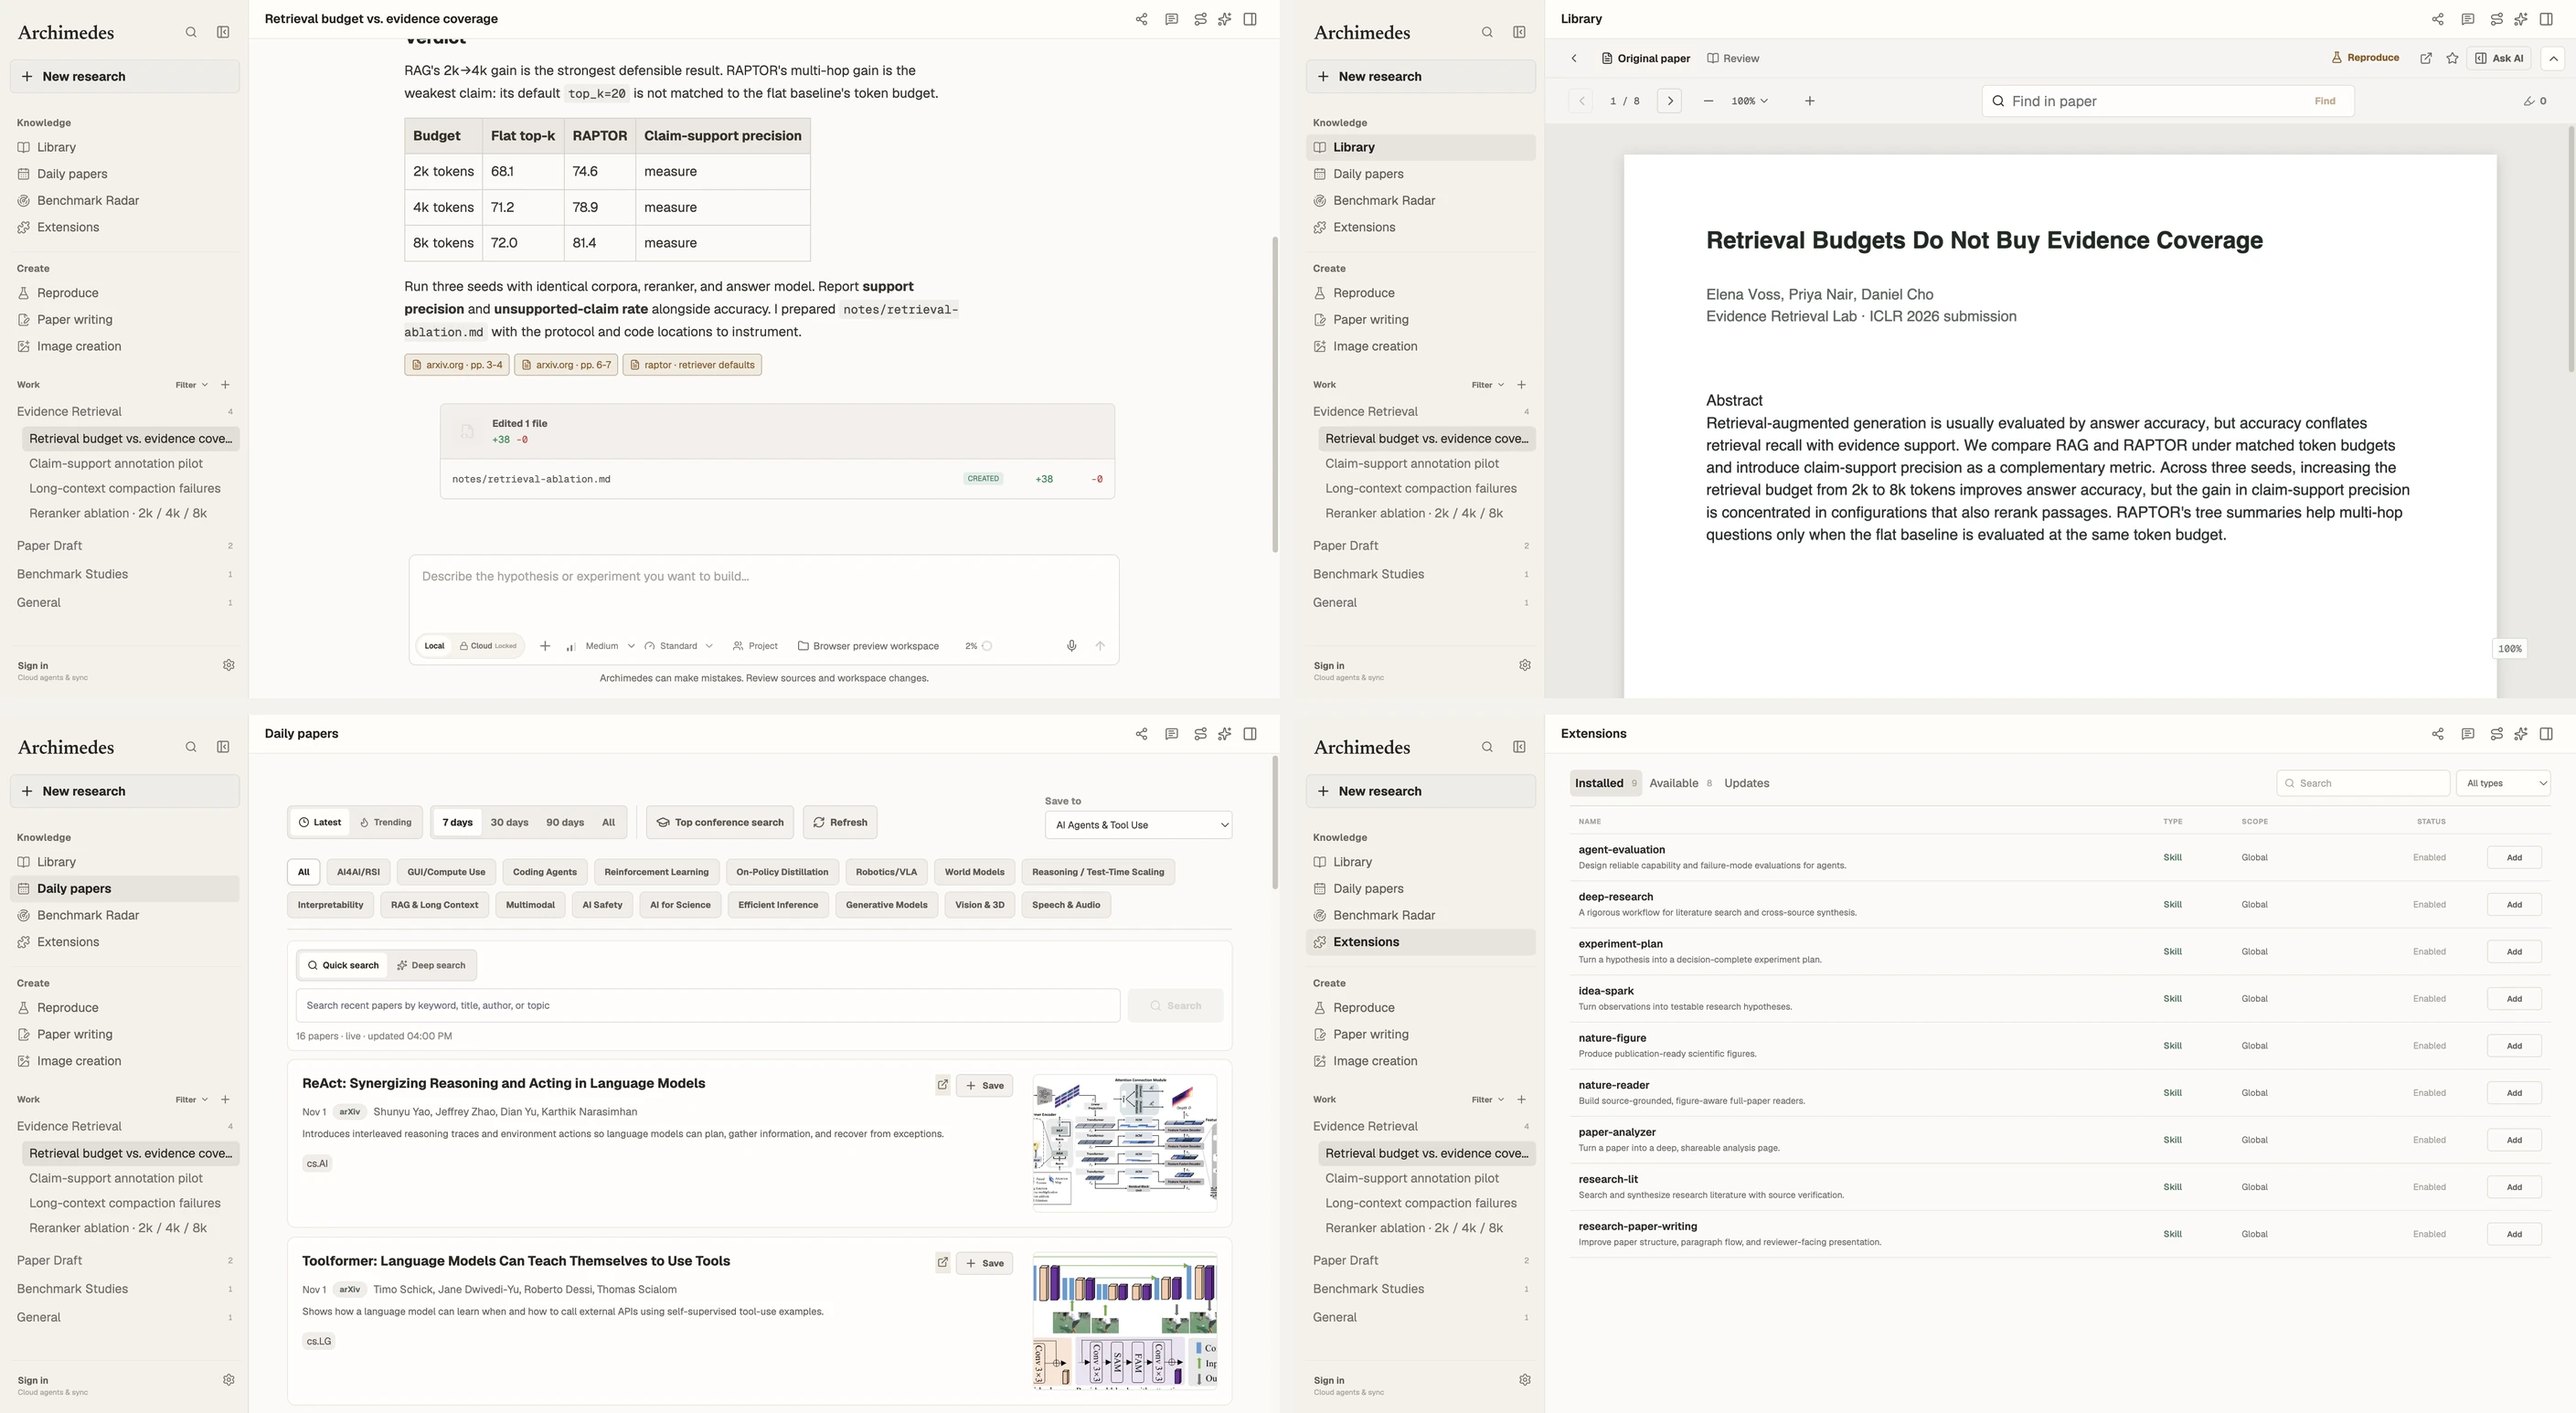
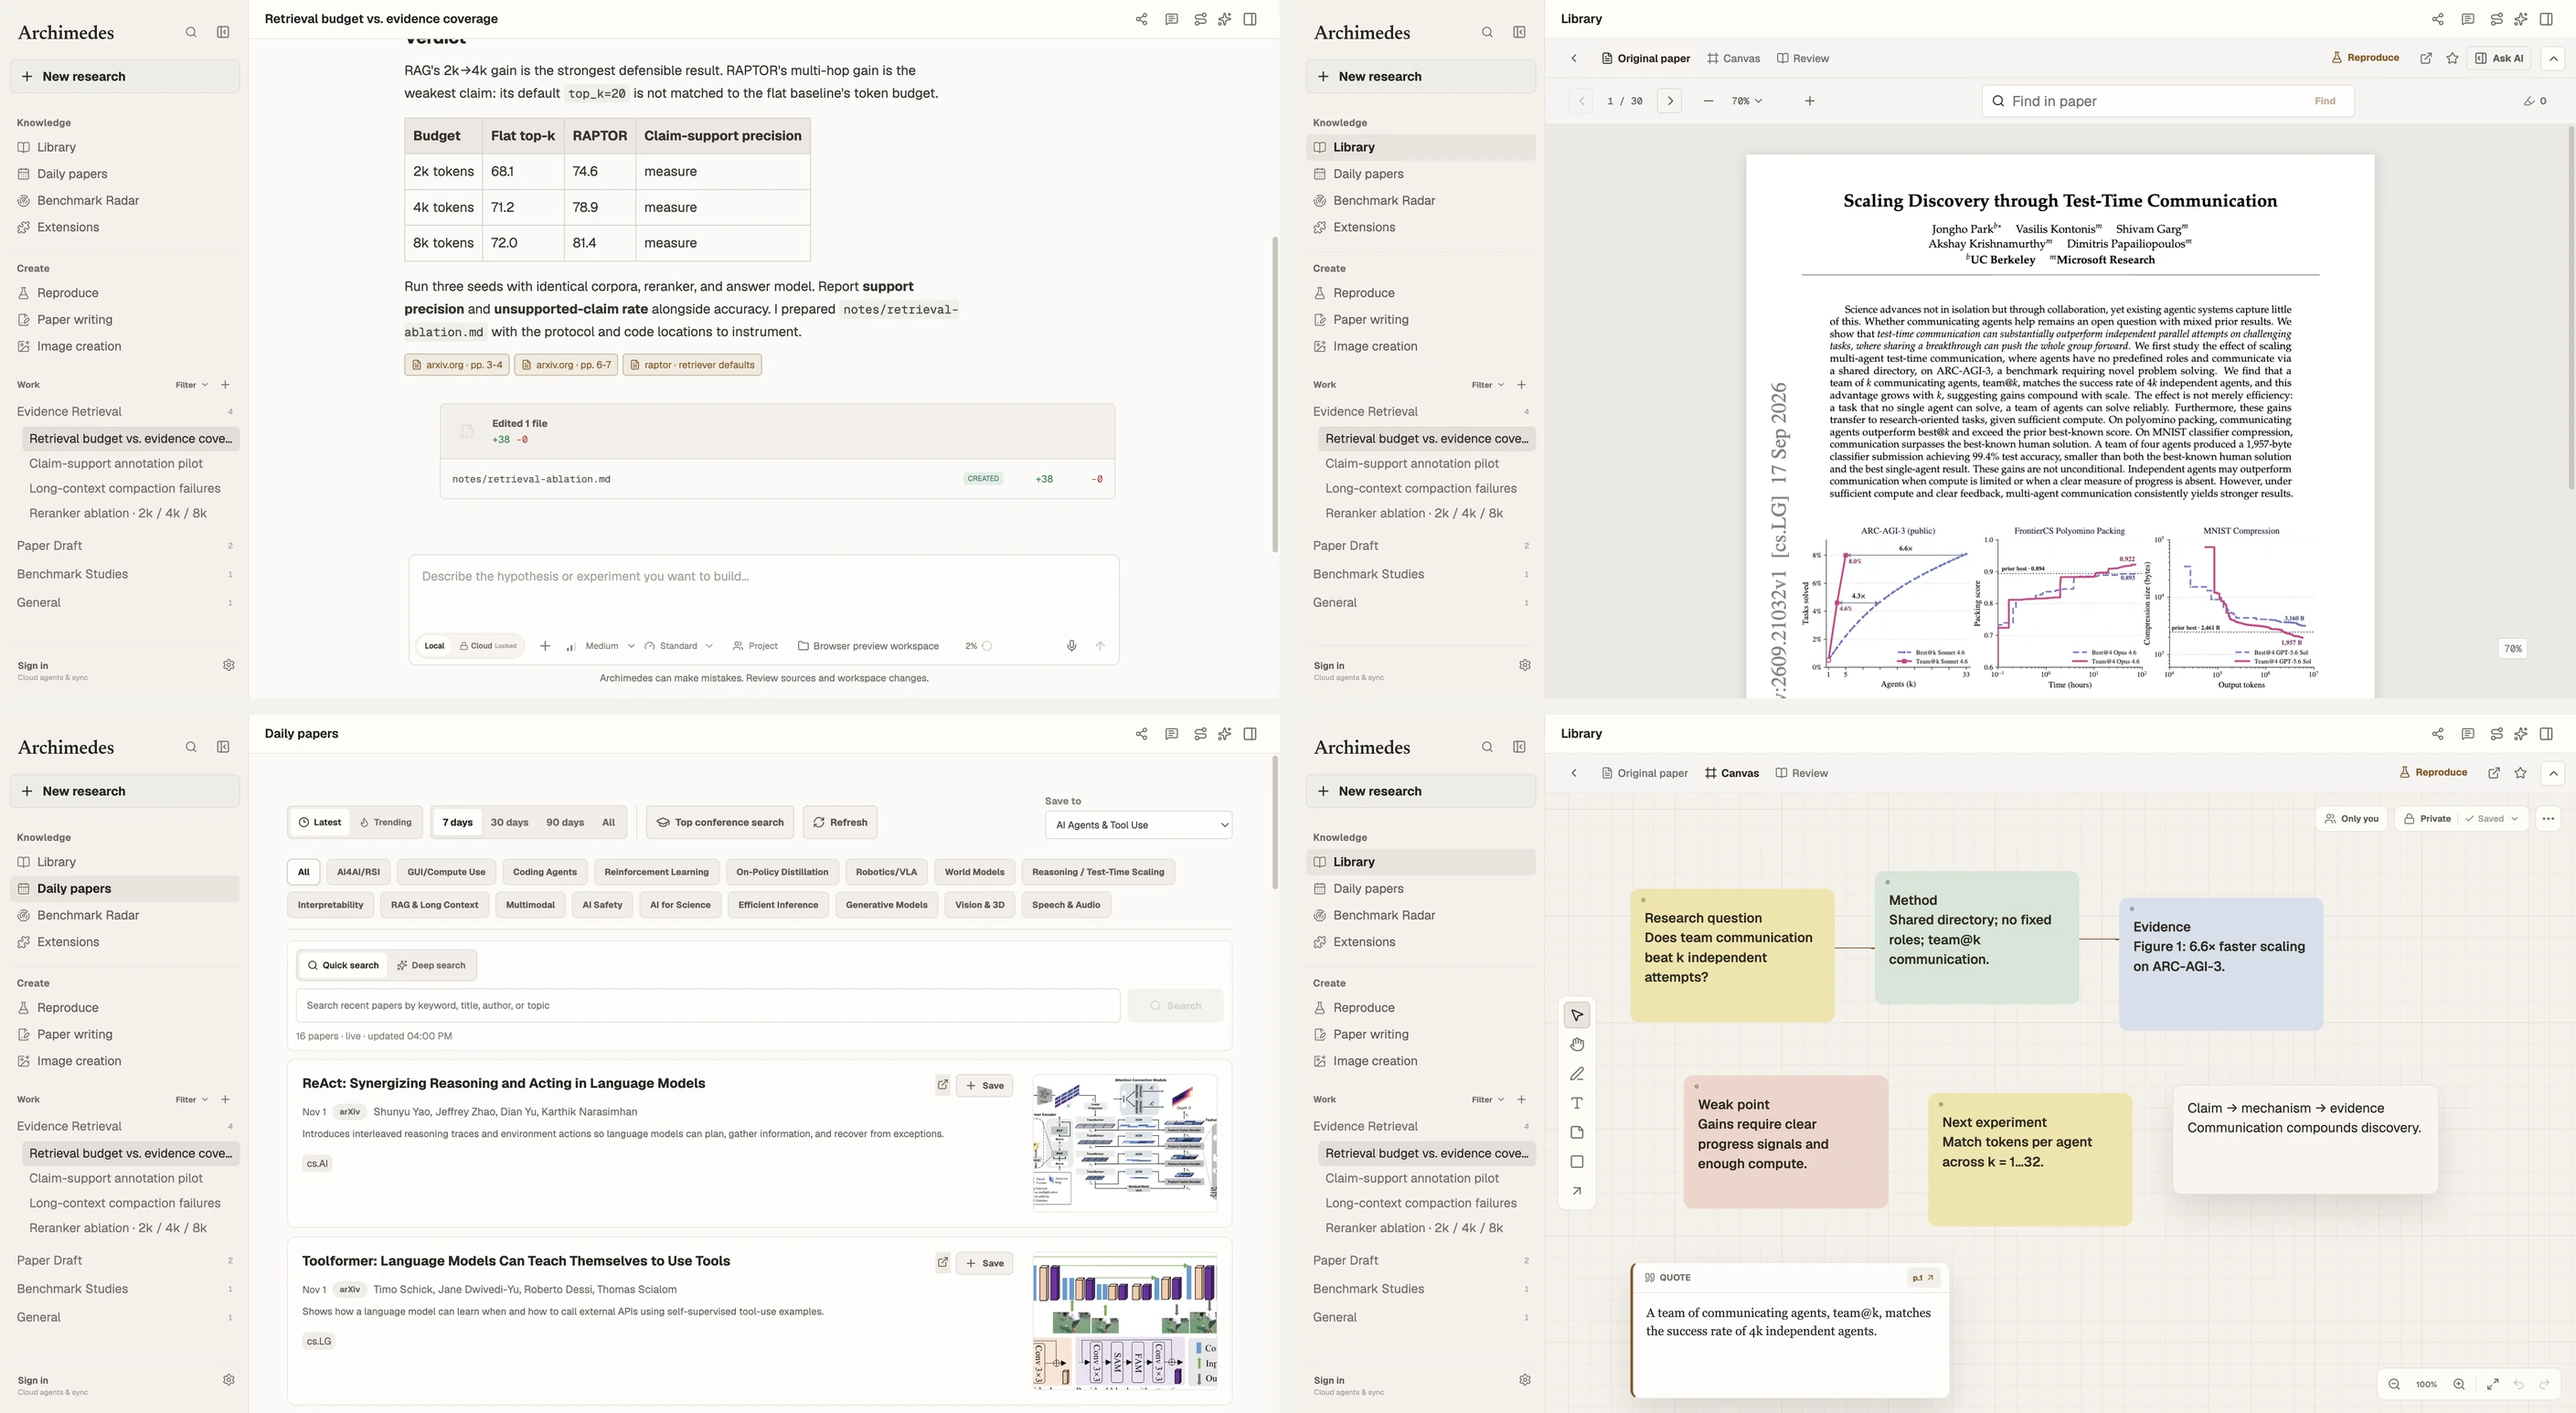
docs(readme): refresh hero demos with paper, canvas, and writing

diff --git a/README.md b/README.md
@@ -5,7 +5,7 @@
 > 面向研究全流程的科研智能体工作台：把找论文、读论文、看项目代码、组织证据、开展实验和写作放回同一个可追溯的桌面应用中。
 
 <p align="center">
-  <img src="docs/assets/readme/archimedes-hero-1.webp" alt="Archimedes research chat, original paper reader, Daily papers, and Extensions">
+  <img src="docs/assets/readme/archimedes-hero-1.webp" alt="Archimedes research chat, original paper reader, Daily papers, and Canvas">
 </p>
 
 <p align="center">
